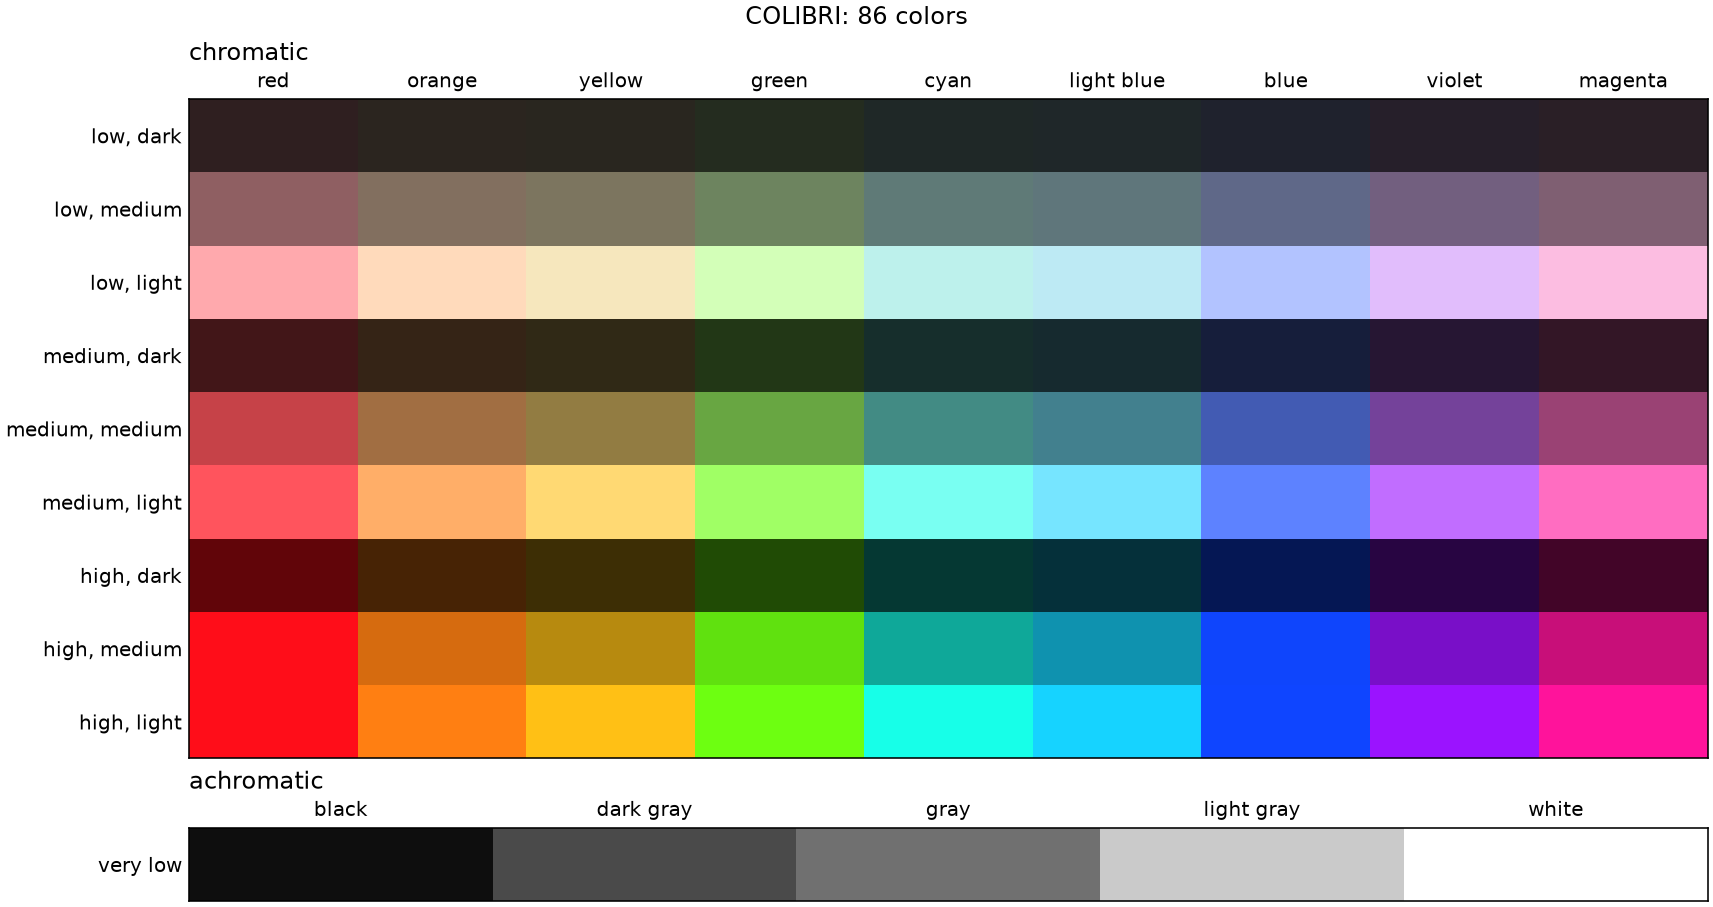
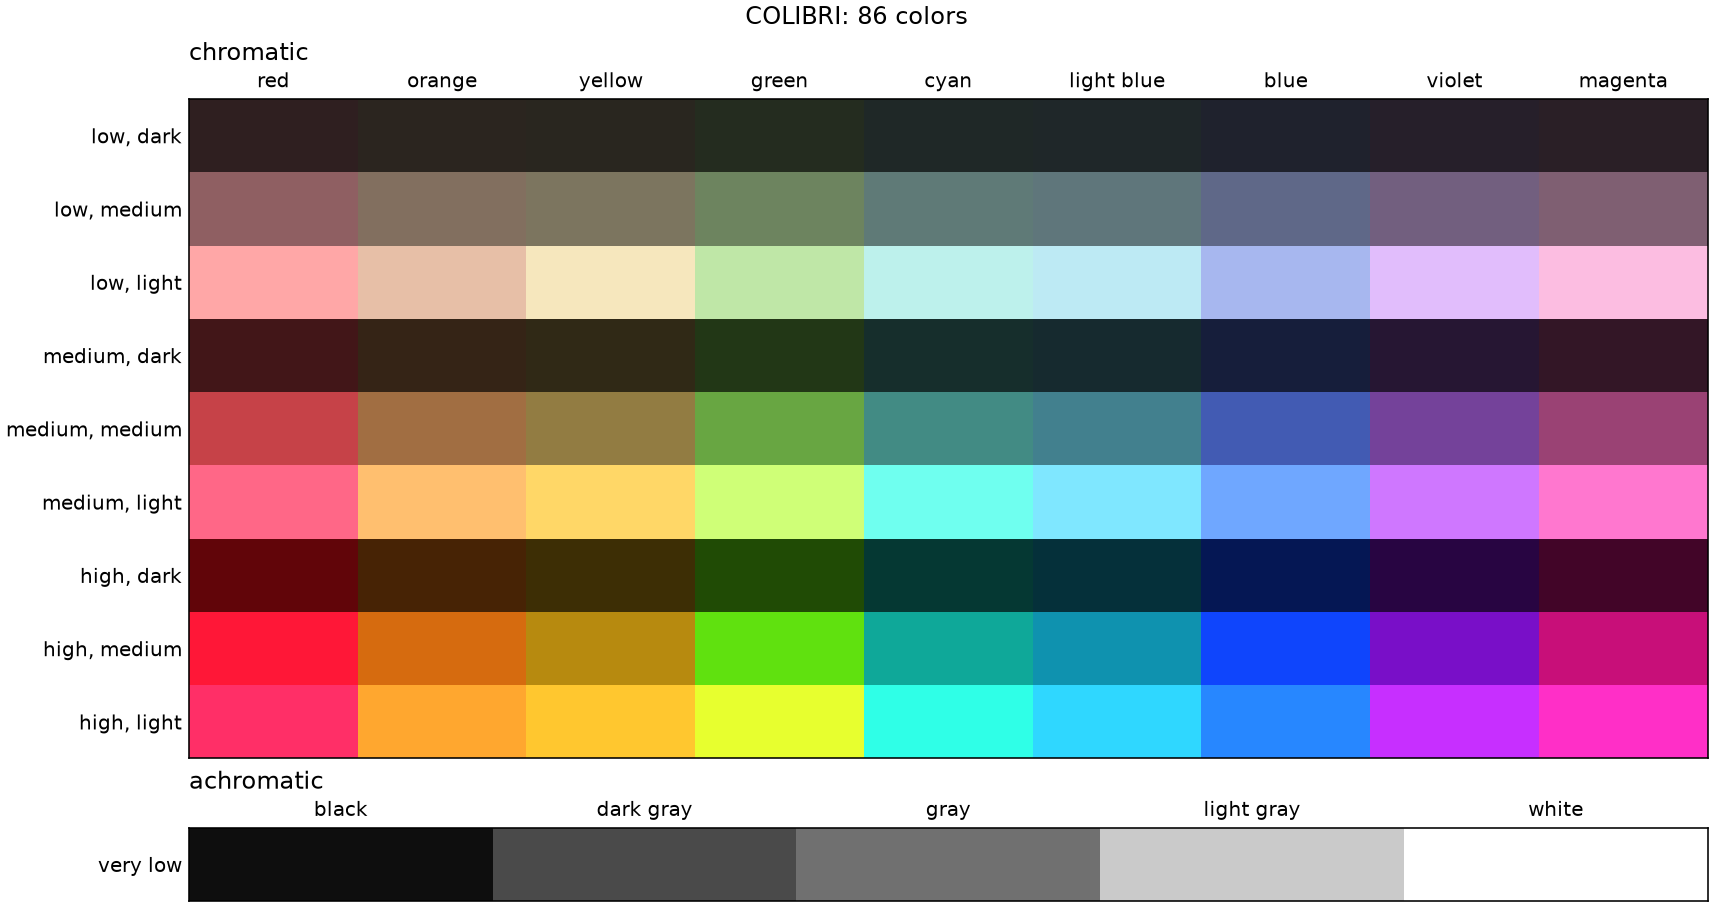
Give every color a prototype of its own

diff --git a/src/emoge/color/model.py b/src/emoge/color/model.py
@@ -10,7 +10,7 @@ import numpy as np
 from numpy.typing import ArrayLike, NDArray
 
 from emoge.color.space import Space
-from emoge.color.spaces.rgb import fit_into_rgb, to_float_rgb
+from emoge.color.spaces.rgb import to_float_rgb
 from emoge.fuzzy.math.norms import Norm, product
 from emoge.fuzzy.variables import Variable
 
@@ -18,6 +18,8 @@ from emoge.fuzzy.variables import Variable
 _PIXELS_PER_BLOCK = 1 << 16
 # Above this share of distinct colors among the pixels, finding them does not pay.
 _MOST_DISTINCT = 0.8
+# How far outside [0, 1] a component of a prototype may stray, from rounding.
+_SLACK = 1e-9
 
 
 class ColorModel:
@@ -73,6 +75,7 @@ class ColorModel:
         self.and_norm = and_norm
         self.colors = colors
         self._colors_then_empty = np.array([*colors, ""])  # index len(colors): none
+        self._prototypes: NDArray[np.float64] | None = None
 
     def degrees(self, rgb: ArrayLike) -> NDArray[np.float64]:
         """Return the degree of the pixels in every color: `(len(colors), *pixels)`."""
@@ -210,9 +213,16 @@ class ColorModel:
         """Return a typical RGB color for every color: shape `(len(colors), 3)`.
 
         A channel takes the middle of the core of the color's term, or the middle
-        of the channel if the family does not describe it. A color too bright for
-        RGB is darkened until it fits.
+        of the channel if the family does not describe it. Where RGB cannot show
+        that, as for a light vivid red, the color takes the RGB color it is
+        strongest in, the one nearest to that middle, among 33 levels of every
+        component.
         """
+        if self._prototypes is None:
+            self._prototypes = self._typical_colors()
+        return self._prototypes.copy()
+
+    def _typical_colors(self) -> NDArray[np.float64]:
         middles = {c.name: (c.low + c.high) / 2.0 for c in self.space.channels}
         rows = []
         for variables in self.families.values():
@@ -222,7 +232,17 @@ class ColorModel:
                 for variable, center in zip(variables, centers, strict=True):
                     point[variable.channel.name] = float(center)
                 rows.append([point[channel.name] for channel in self.space.channels])
-        return fit_into_rgb(self.space.to_rgb(np.array(rows)))
+        rgb = self.space.to_rgb(np.array(rows))
+        outside = ((rgb < -_SLACK) | (rgb > 1.0 + _SLACK)).any(axis=-1)
+        if outside.any():
+            levels = np.linspace(0.0, 1.0, 33)
+            shown = np.stack(np.meshgrid(levels, levels, levels, indexing="ij"), -1)
+            shown = shown.reshape(-1, 3)
+            degrees = self.degrees(shown)[outside]
+            strongest = degrees >= degrees.max(axis=1, keepdims=True) - _SLACK
+            away = ((shown[None] - rgb[outside][:, None]) ** 2).sum(axis=-1)
+            rgb[outside] = shown[np.where(strongest, away, np.inf).argmin(axis=1)]
+        return np.clip(rgb, 0.0, 1.0)
 
     def _channel_values(self, rgb: ArrayLike) -> dict[str, NDArray[np.float64]]:
         """The values of every channel of the space for the pixels, by name."""

diff --git a/tests/color/models/test_colibri.py b/tests/color/models/test_colibri.py
@@ -45,6 +45,19 @@ def test_the_partitions_keep_the_published_cores():
     assert INTENSITY.degrees(levels).tolist() == np.eye(5).tolist()
 
 
+def test_every_color_has_a_prototype_of_its_own():
+    prototypes = COLIBRI.prototypes()
+    assert len(np.unique(prototypes.round(6), axis=0)) == 86
+    # RGB cannot show a light vivid red; its prototype is still lighter.
+    names = list(COLIBRI.colors)
+    medium, light = prototypes[
+        [names.index(f"red/high/{s}") for s in ("medium", "light")]
+    ]
+    assert light.mean() > medium.mean()
+    labels = COLIBRI.label(prototypes).tolist()
+    assert sum(label == name for label, name in zip(labels, names, strict=True)) >= 84
+
+
 def test_shades_are_the_intensities_joined():
     x = np.linspace(0, 1, 1001)
     black, dark_gray, gray, light_gray, white = INTENSITY.degrees(x)

diff --git a/docs/graphs/README.md b/docs/graphs/README.md
@@ -31,7 +31,7 @@ far apart their prototypes look.
 
 ```python
 colors = graphs.color_graph(color.COLIBRI, flag)
-print(colors)  # Graph(86 nodes, 3654 edges)
+print(colors)  # Graph(86 nodes, 3655 edges)
 print(colors.node_features)  # ('share', 'beside itself', 'lightness', 'a', 'b')
 print(colors.edge_features)  # ('neighbours', 'distance')
 share = colors.nodes[:, 0]
